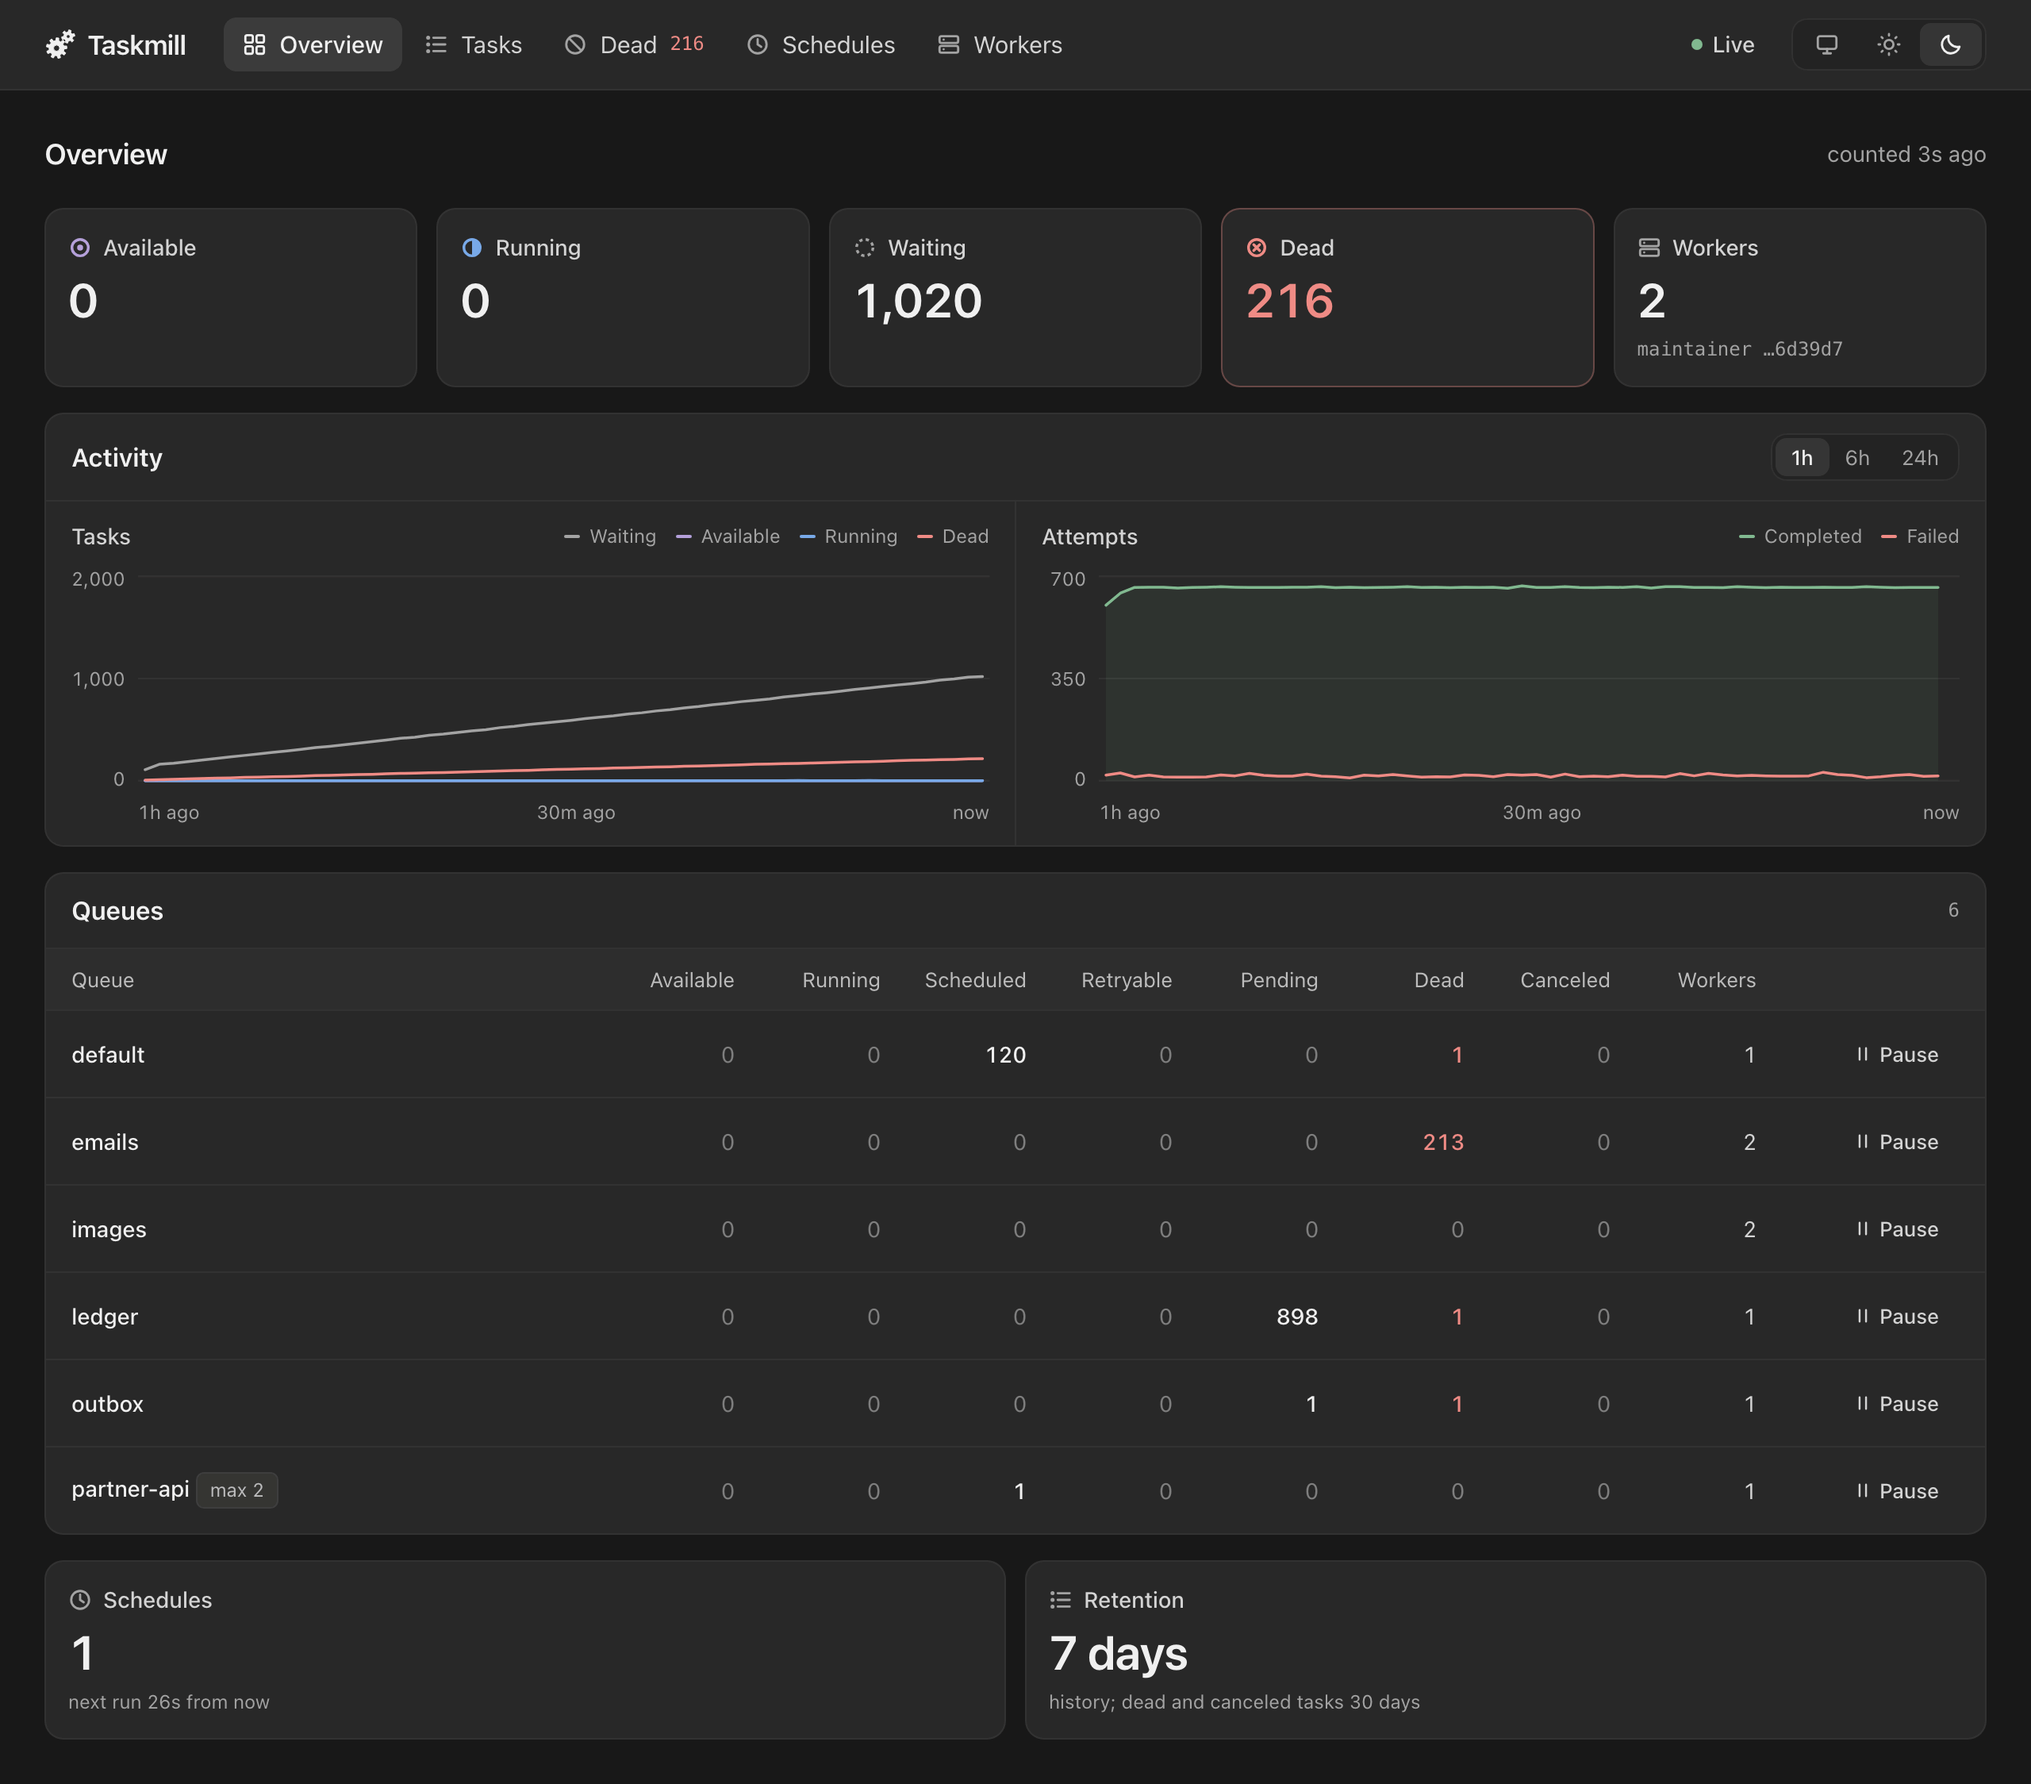
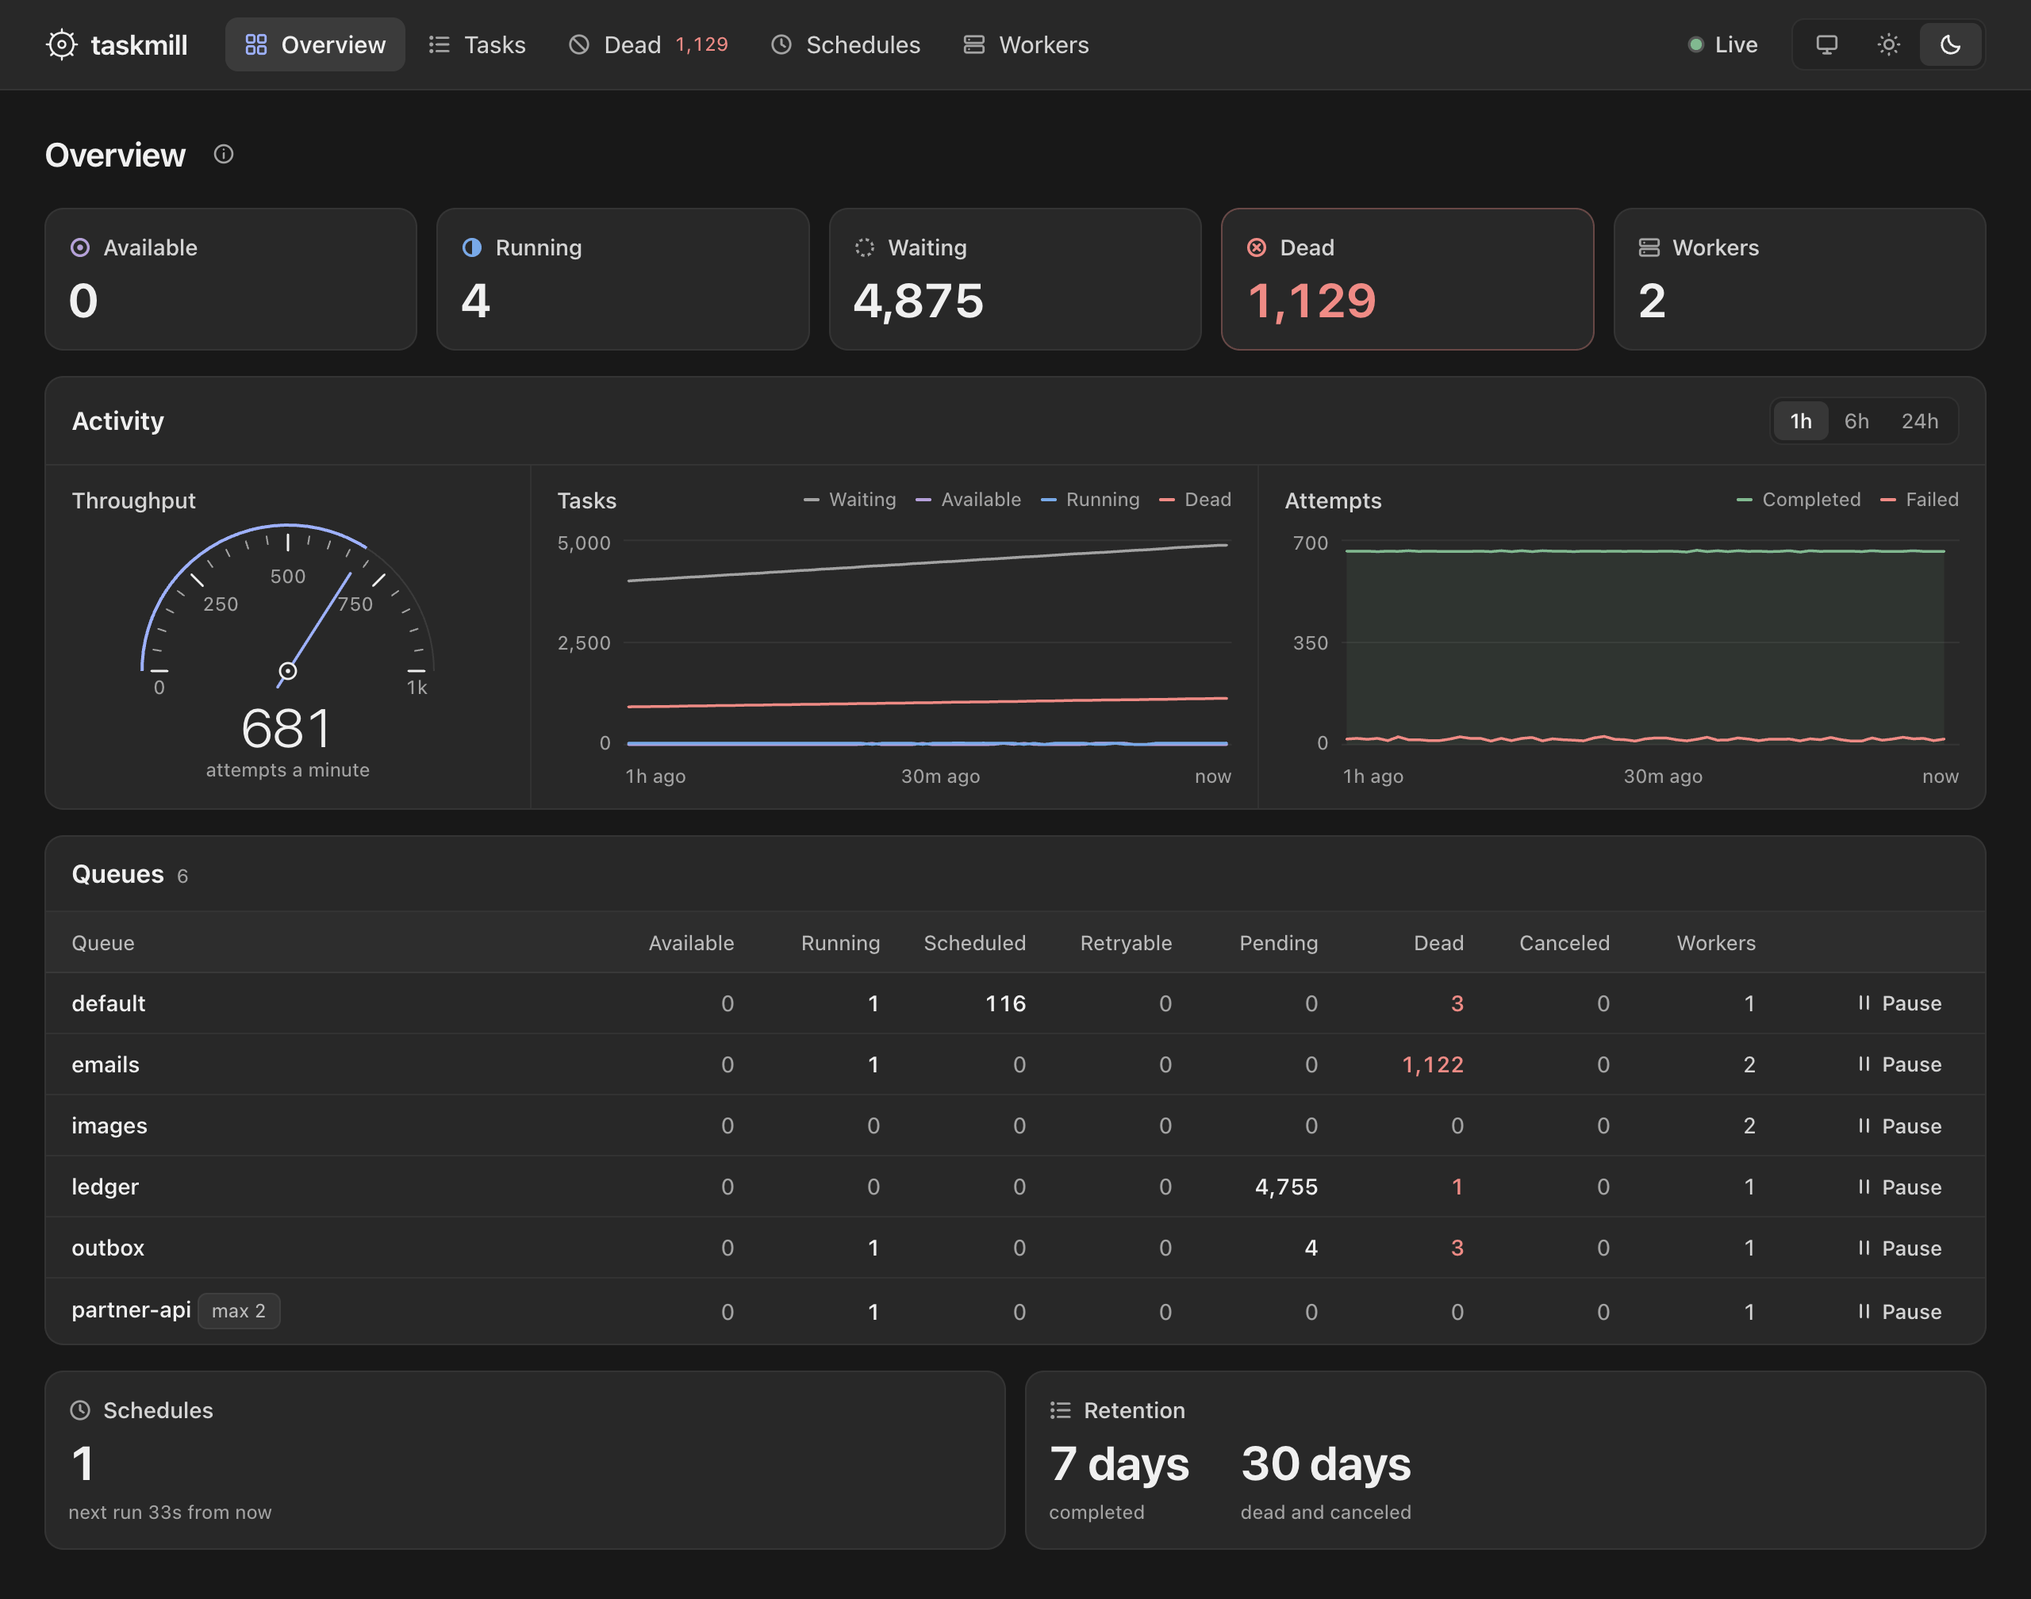
docs: retake the dashboard pictures (#163)
The pictures of the dashboard in the README and in the dashboard guide
showed the look before this release. They now show the Overview as it
is: the new logo and buttons, the throughput dial, the hint beside the
title, and the retention periods as values.

Taken from the example shop in both themes, at 1280 pixels wide and
twice the density, as before. Their descriptions name the dial.

diff --git a/docs/guides/dashboard.md b/docs/guides/dashboard.md
@@ -6,7 +6,7 @@ tasks. This page shows how to run it, how to protect it, and what it can do.
 
 <picture>
   <source media="(prefers-color-scheme: dark)" srcset="../images/dashboard-dark.png">
-  <img alt="The dashboard's overview: task counts, charts of the last hour's tasks and attempts, and the queues" src="../images/dashboard-light.png">
+  <img alt="The dashboard's overview: task counts, a dial of the attempts a minute, charts of the last hour's tasks and attempts, and the queues" src="../images/dashboard-light.png">
 </picture>
 
 ## Which should I use?

diff --git a/README.md b/README.md
@@ -31,7 +31,7 @@ dependency is pgx.
 
 <picture>
   <source media="(prefers-color-scheme: dark)" srcset="docs/images/dashboard-dark.png">
-  <img alt="The dashboard's overview: task counts, charts of the last hour's tasks and attempts, and the queues" src="docs/images/dashboard-light.png">
+  <img alt="The dashboard's overview: task counts, a dial of the attempts a minute, charts of the last hour's tasks and attempts, and the queues" src="docs/images/dashboard-light.png">
 </picture>
 
 The dashboard, showing the [shop example](examples/shop).
